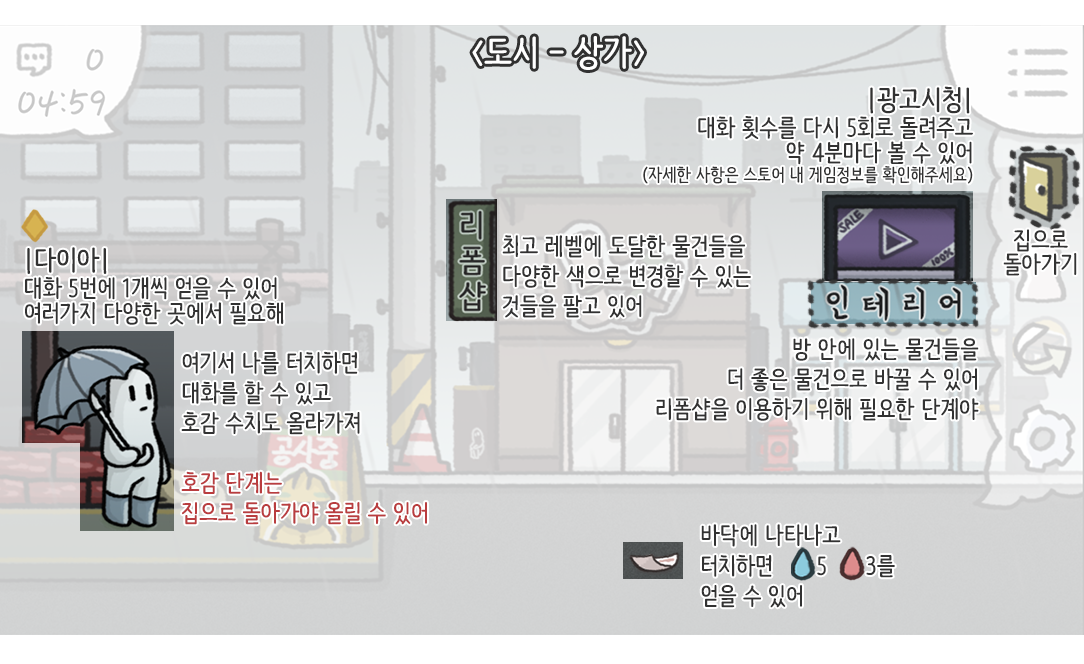
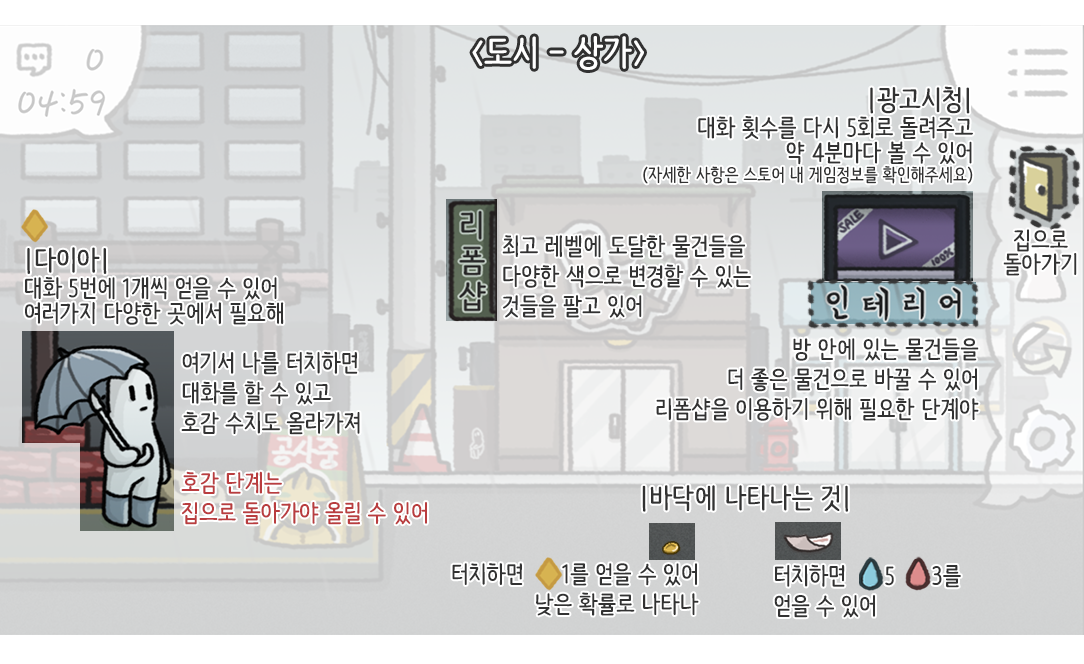
도시완성
ㅇ

Changed region(s): [[0.3958, 0.7229, 0.8828, 0.9337]]

diff --git a/_Script/MainShop.cs b/_Script/MainShop.cs
@@ -83,6 +83,7 @@ public class MainShop : ShopHandler {
          * 마법의 코드 자리
         */
         //초기화 코드 자리
+
         GM = GameObject.FindGameObjectWithTag("firstroomGM");
         GM2 = GameObject.FindGameObjectWithTag("GM2");
         loadGM =GameObject.FindGameObjectWithTag("loadGM");
@@ -304,6 +305,10 @@ public class MainShop : ShopHandler {
         {
             switch (itemIndex_i)
             {
+                case 5:
+                    GM2.GetComponent<secondRoomFunction>().wallImg_obj.GetComponent<Image>().sprite = GM2.GetComponent<secondRoomFunction>().wall_spr[itemLevel_i];
+                    GM2.GetComponent<secondRoomFunction>().wallImg2_obj.GetComponent<Image>().sprite = GM2.GetComponent<secondRoomFunction>().wall2_spr[itemLevel_i];
+                    break;
                 case 6:
                     GM2.GetComponent<secondRoomFunction>().secondRoomItem_obj[itemIndex_i].GetComponent<Image>().sprite = loadGM.GetComponent<LoadingData>().light_spr[itemLevel_i];
                     GM2.GetComponent<secondRoomFunction>().secondRoomItem_obj[13].GetComponent<Image>().sprite = loadGM.GetComponent<LoadingData>().light_spr[itemLevel_i];

diff --git a/_Script/CityTime.cs b/_Script/CityTime.cs
@@ -63,7 +63,7 @@ public class CityTime : MonoBehaviour {
                 {
                     randPaper_i = Random.Range(0, 17);
                     px = Random.Range(-2, 6);
-                    py = Random.Range(-4, -2);
+                    py = Random.Range(-4, -3);
                 }
             }
 
@@ -85,7 +85,7 @@ public class CityTime : MonoBehaviour {
                 {
                     randCoin_i = Random.Range(0, 999);
                     cx = Random.Range(-2, 6);
-                    cy = Random.Range(-4, -2);
+                    cy = Random.Range(-3, -2);
                 }
             }
 

diff --git a/_Script/MainSticker.cs b/_Script/MainSticker.cs
@@ -123,6 +123,10 @@ public class MainSticker : MonoBehaviour
                 {
                     GM= GameObject.FindGameObjectWithTag("parkGM");
                 }
+                if (PlayerPrefs.GetInt("outtrip", 0) == 2)
+                {
+                    GM = GameObject.FindGameObjectWithTag("cityGM");
+                }
                 gameObject.SetActive(false);
                 name_str = this.gameObject.name;
                 if (name_str.Length == 3)

diff --git a/_Script/FirstRoomFunction.cs b/_Script/FirstRoomFunction.cs
@@ -277,8 +277,7 @@ public class FirstRoomFunction : CavasData {
         {
             deskImg_obj.GetComponent<Image>().sprite = reformDesk_spr[PlayerPrefs.GetInt("setdeskpalette", 0)];
         }
-
-
+        
         if (ladderBox_obj.activeSelf == false)
         {
             ladderImg_obj.GetComponent<Image>().sprite = ladder_spr;
